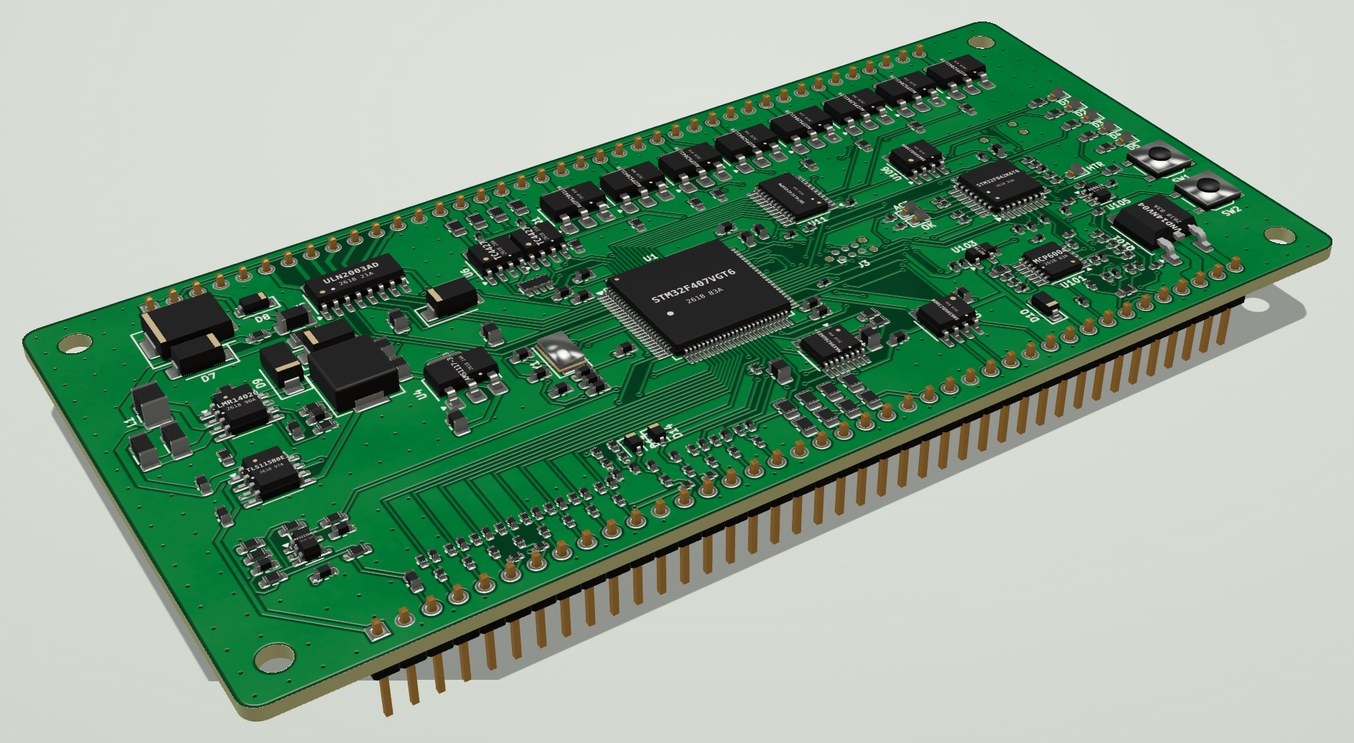
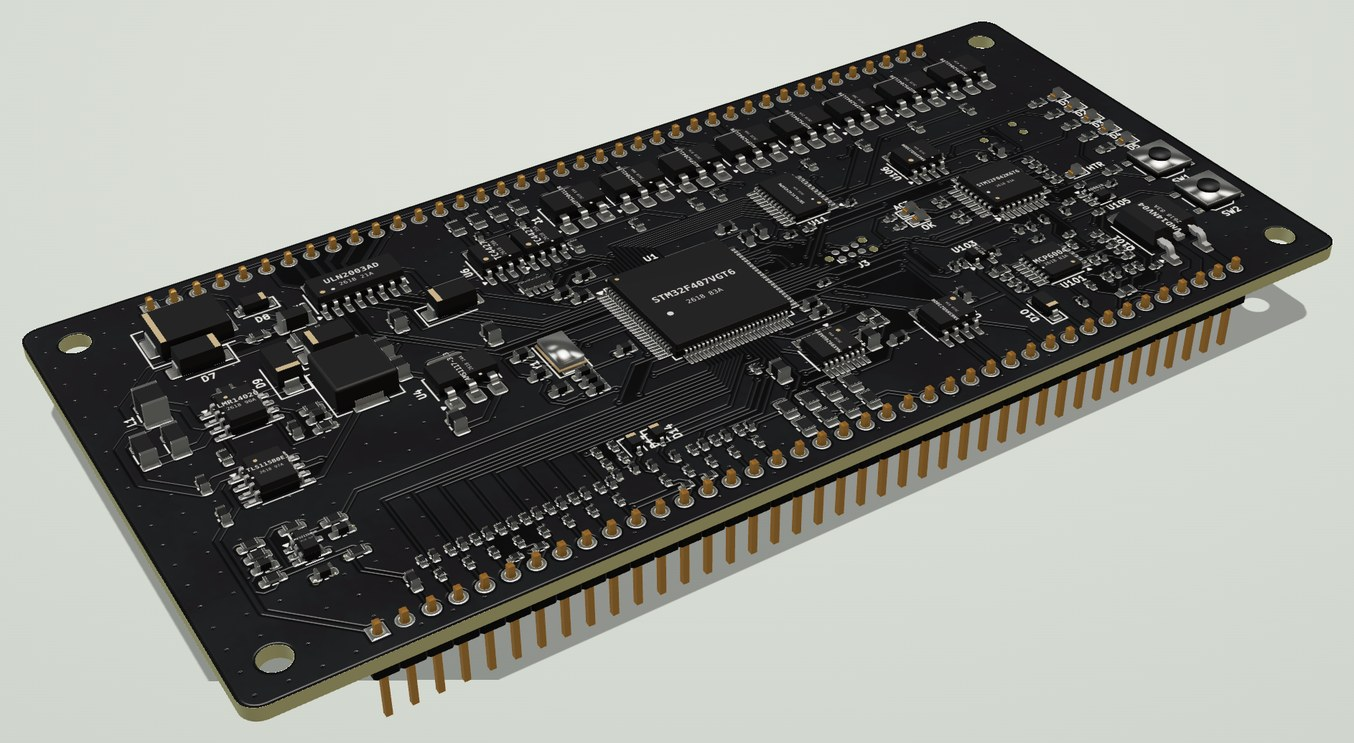
README renders with black solder mask; pcb3d.py MASK/OUTDIR options
Claude-Session: https://claude.ai/code/session_012UFcA8PhPqkqYxcgEjD2n9

Changed region(s): [[0.0, 0.031, 0.9926, 0.9596]]

diff --git a/viewer/pcb3d.py b/viewer/pcb3d.py
@@ -18,6 +18,8 @@ BOARD, PRE, KIND = sys.argv[1], sys.argv[2], sys.argv[3]
 LONG = int(sys.argv[4]) if len(sys.argv) > 4 else 4096
 HERE = os.path.dirname(os.path.abspath(__file__))
 SCRIPTS = os.path.join(HERE, '..', 'scripts')
+OUT = os.environ.get('OUTDIR', HERE)           # where the assets go (default: next to the viewer)
+MASK = os.environ.get('MASK', 'green')         # solder mask colour: green (the viewer) or black (README renders)
 sys.path.insert(0, SCRIPTS)
 WORK = os.path.join(HERE, 'work_' + (PRE or 'daughter'))
 os.makedirs(WORK, exist_ok=True)
@@ -99,9 +101,12 @@ def noise(scale, amp):
 
 weave = (np.sin(xx * PX * 2 * np.pi / 0.42) * np.sin(yy * PX * 2 * np.pi / 0.42)) * 0.5
 mottle = noise(64, 1.0) + noise(8, 0.35)
-C_LAM = np.array([8, 54, 30], float); C_CU = np.array([22, 92, 46], float)
+# solder mask over bare laminate / over copper, plugged-via dimples
+MASKS = {'green': ([8, 54, 30], [22, 92, 46], [5, 26, 14]),
+         'black': ([11, 12, 13], [27, 28, 30], [4, 4, 5])}
+C_LAM, C_CU, C_DIMPLE = (np.array(c, float) for c in MASKS[MASK])
 C_HASL = np.array([206, 207, 203], float); C_SILK = np.array([238, 238, 230], float)
-C_DIMPLE = np.array([5, 26, 14], float); C_BARE = np.array([92, 98, 58], float)
+C_BARE = np.array([92, 98, 58], float)
 
 
 def build(side, cu, mask_open, silk):
@@ -135,7 +140,7 @@ def build(side, cu, mask_open, silk):
     rough = np.where(exposed, 0.32 + noise(4, 0.08), np.where(s[..., 0] > 0.5, 0.82, np.where(bare, 0.7, 0.42 + mottle * 0.04)))
     orm = np.dstack([clear, np.clip(rough * 255, 0, 255).astype(np.uint8), (np.where(exposed, 255, 0)).astype(np.uint8)])
     for k, a, mode, q in (('albedo', albedo, 'RGBA', 90), ('orm', orm, 'RGB', 90), ('normal', normal, 'RGB', 92)):
-        Image.fromarray(a, mode).save(f'{HERE}/{PRE}{side}_{k}.webp', quality=q, method=6)
+        Image.fromarray(a, mode).save(f'{OUT}/{PRE}{side}_{k}.webp', quality=q, method=6)
 
 
 build('top', lay('F.Cu'), lay('F.Mask'), lay('F.SilkS'))
@@ -370,7 +375,7 @@ if brd is not None:
 scene.export(f'{WORK}/merged.glb', include_normals=True)
 subprocess.run([GLTFPACK, '-i', f'{WORK}/merged.glb', '-o', f'{WORK}/q.glb'], check=True, capture_output=True)
 import gzip, base64
-open(f'{HERE}/{PRE}board.glb.gz.b64.txt', 'w').write(base64.b64encode(gzip.compress(open(f'{WORK}/q.glb', 'rb').read(), 9)).decode())
+open(f'{OUT}/{PRE}board.glb.gz.b64.txt', 'w').write(base64.b64encode(gzip.compress(open(f'{WORK}/q.glb', 'rb').read(), 9)).decode())
 
 # pick boxes: union of meshes whose centre falls in the footprint rectangle
 cent = np.array([(b[0] + b[1]) / 2 for b in boxes])
@@ -384,5 +389,5 @@ for p in rows:
     hi[1] = max(hi[1], 1.8)
     p['box'] = [round(float(x), 3) for x in (*lo, *hi)]
 json.dump(dict(size=[round(BW, 4), round(BH, 4)], centre=[round(CX - 100, 4), round(CZ - 50, 4)], parts=rows),
-          open(f'{HERE}/{PRE}parts.json', 'w'), separators=(',', ':'))
+          open(f'{OUT}/{PRE}parts.json', 'w'), separators=(',', ':'))
 print('parts', len(rows), 'meshes', len(boxes), 'groups', len(groups), 'board mesh', brd is not None)

diff --git a/README.md b/README.md
@@ -22,7 +22,7 @@ The daughterboard plugs into the motherboard on two 1×40 sockets and four M3 st
 </tr>
 </table>
 
-<sub>Renders from the 3D viewer in <a href="viewer/"><code>viewer/</code></a>. The harness header, the LSU and IAT connectors and the MAP sensor are simplified stand-in models.</sub>
+<sub>Renders from the 3D viewer in <a href="viewer/"><code>viewer/</code></a>, with black solder mask (<code>MASK=black</code> in <code>viewer/pcb3d.py</code>). The harness header, the LSU and IAT connectors and the MAP sensor are simplified stand-in models.</sub>
 
 > **Status:** every board is fully routed and passes KiCad DRC (no clearance errors, no unconnected items), and each
 > schematic's netlist has been checked pad-by-pad against its board. **None of them has been built or tested yet**, and
